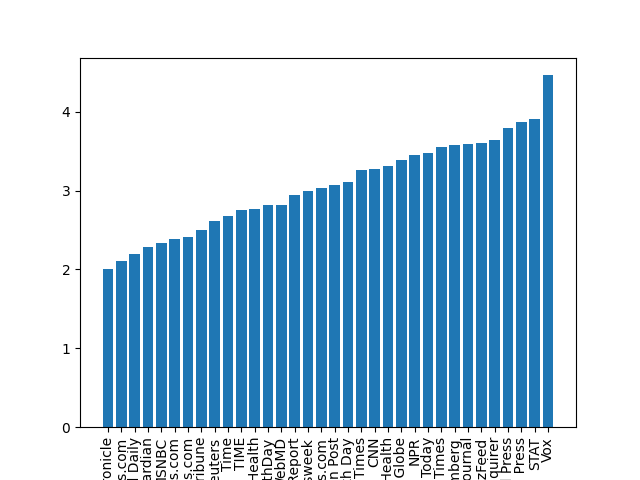
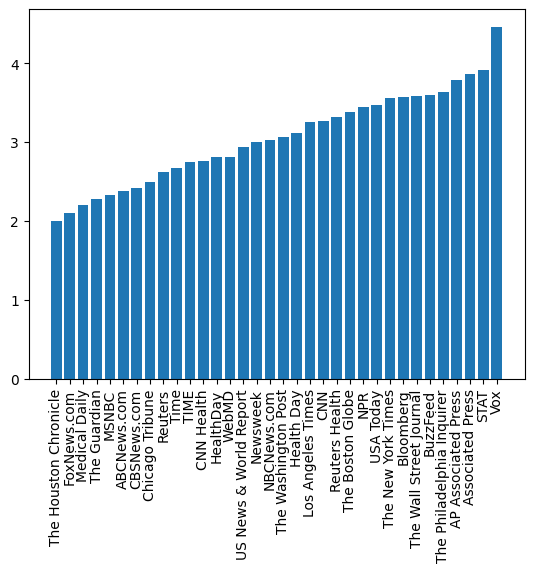
corrected task4's ouput .png to tightly display graph

diff --git a/Project code/task4.py b/Project code/task4.py
@@ -44,6 +44,6 @@ def task4():
         plt.bar(sortedgraph.keys(), sortedgraph.values())
         
         # Saving the figure.
-        plt.savefig("task4b.png")
+        plt.savefig("task4b.png",bbox_inches ="tight")
 
     return
